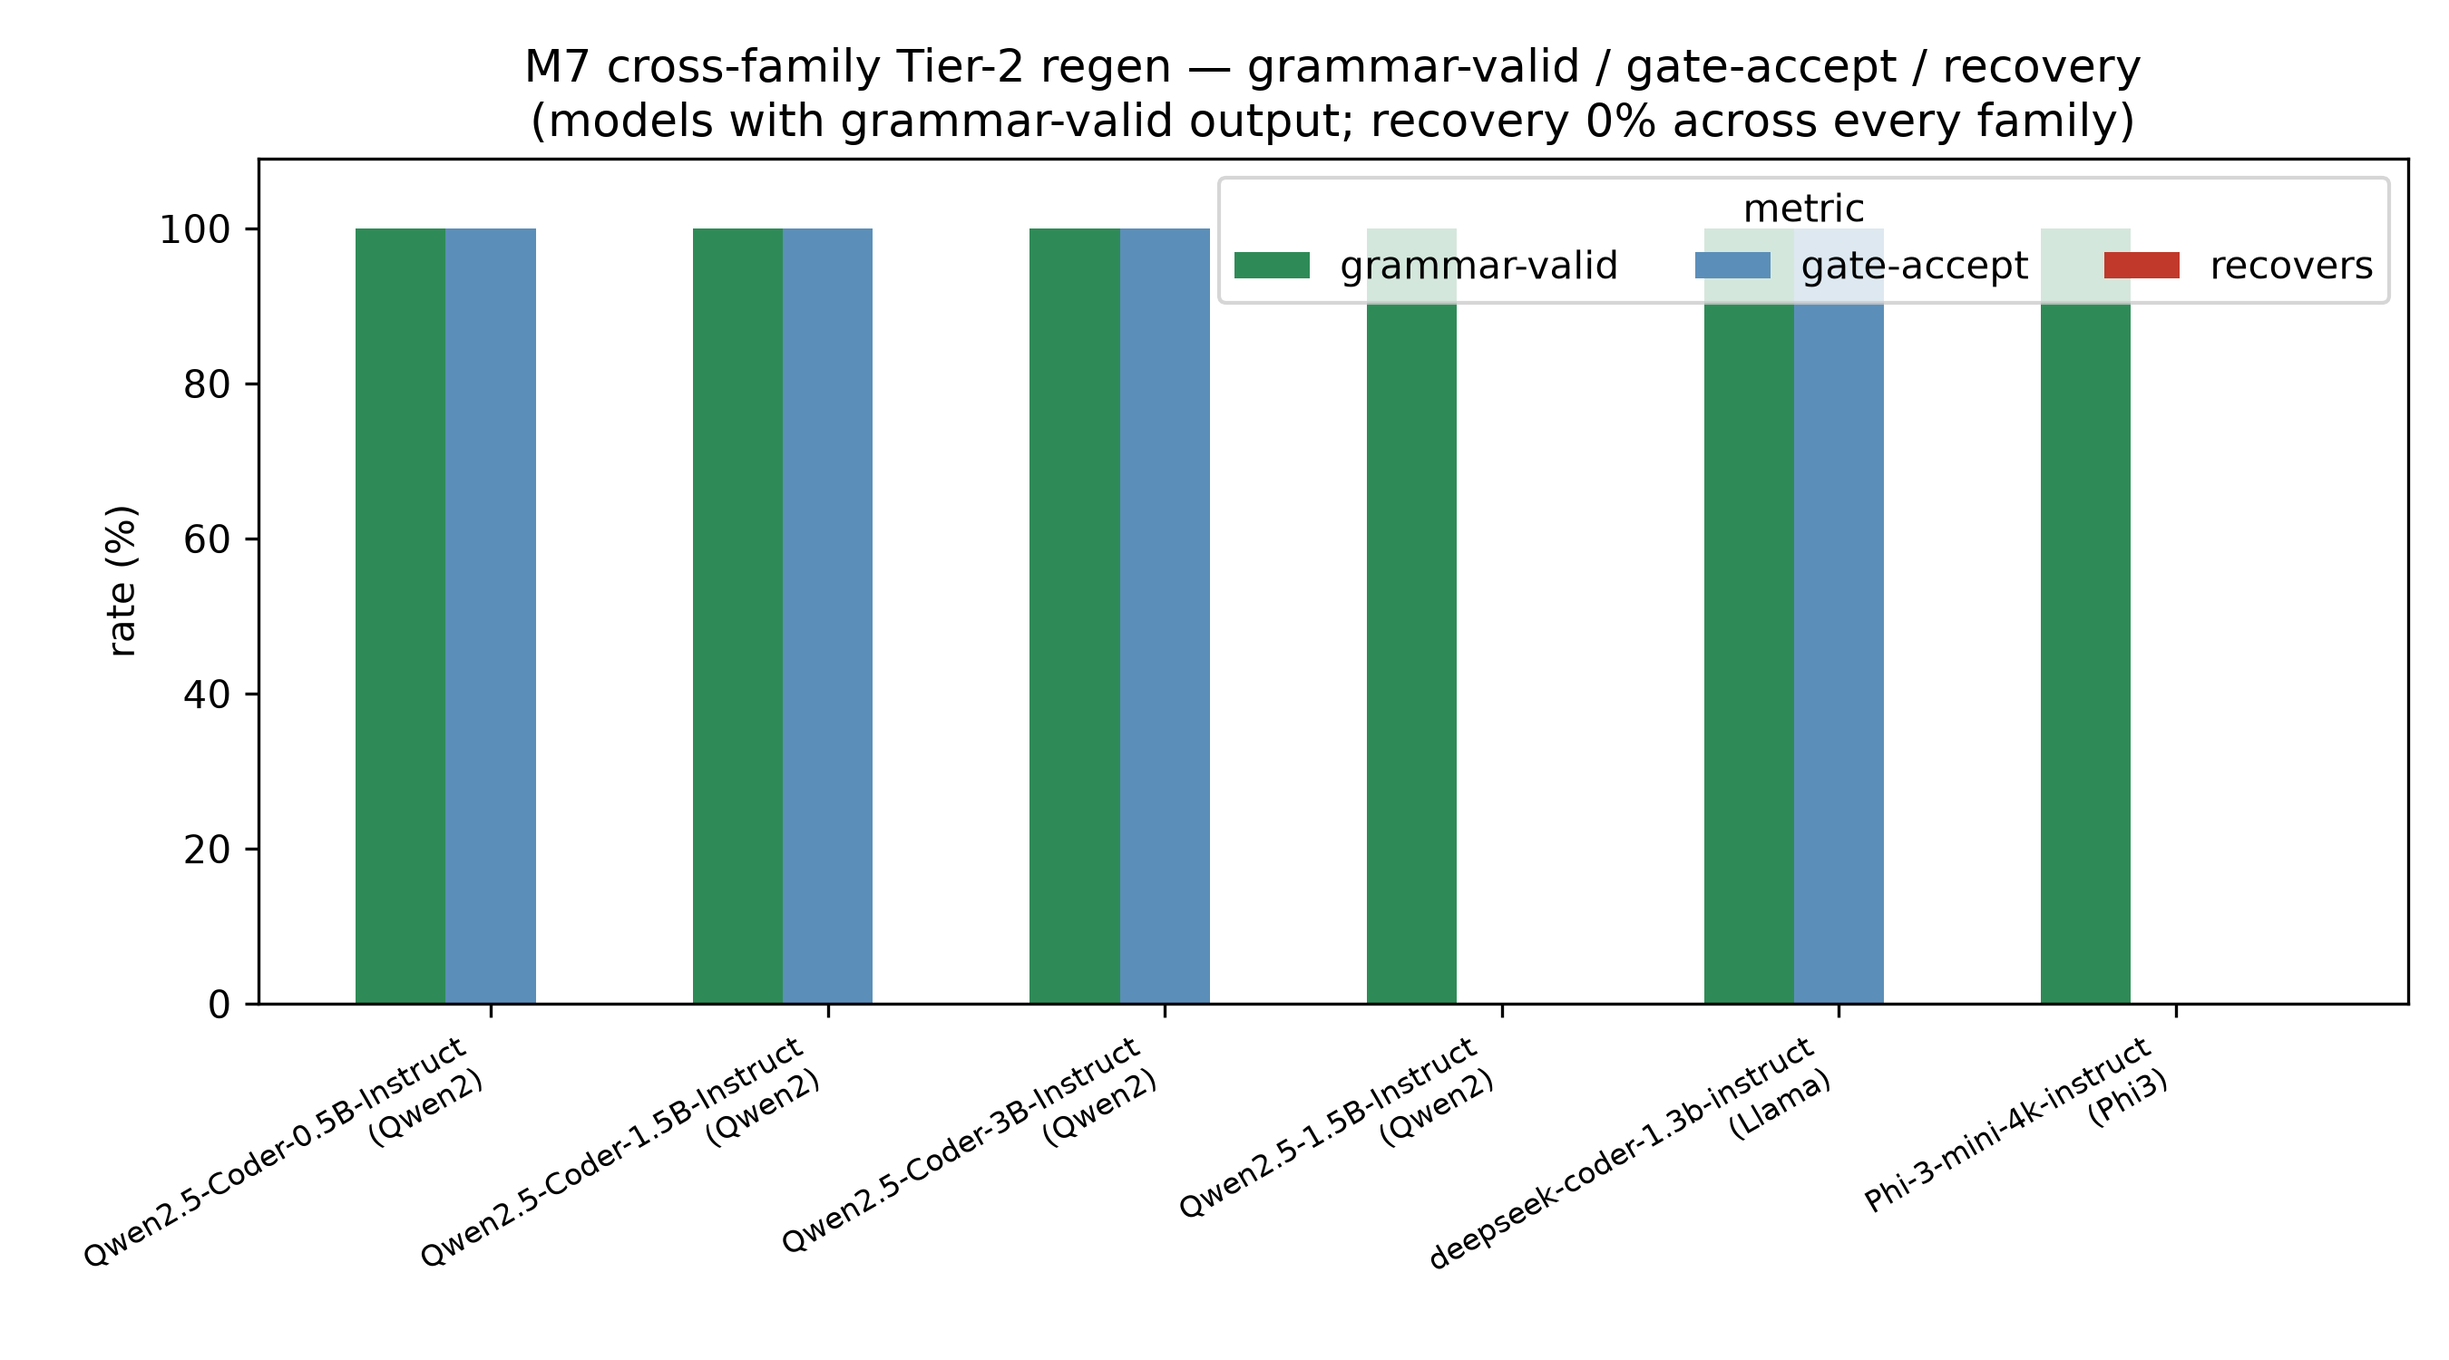
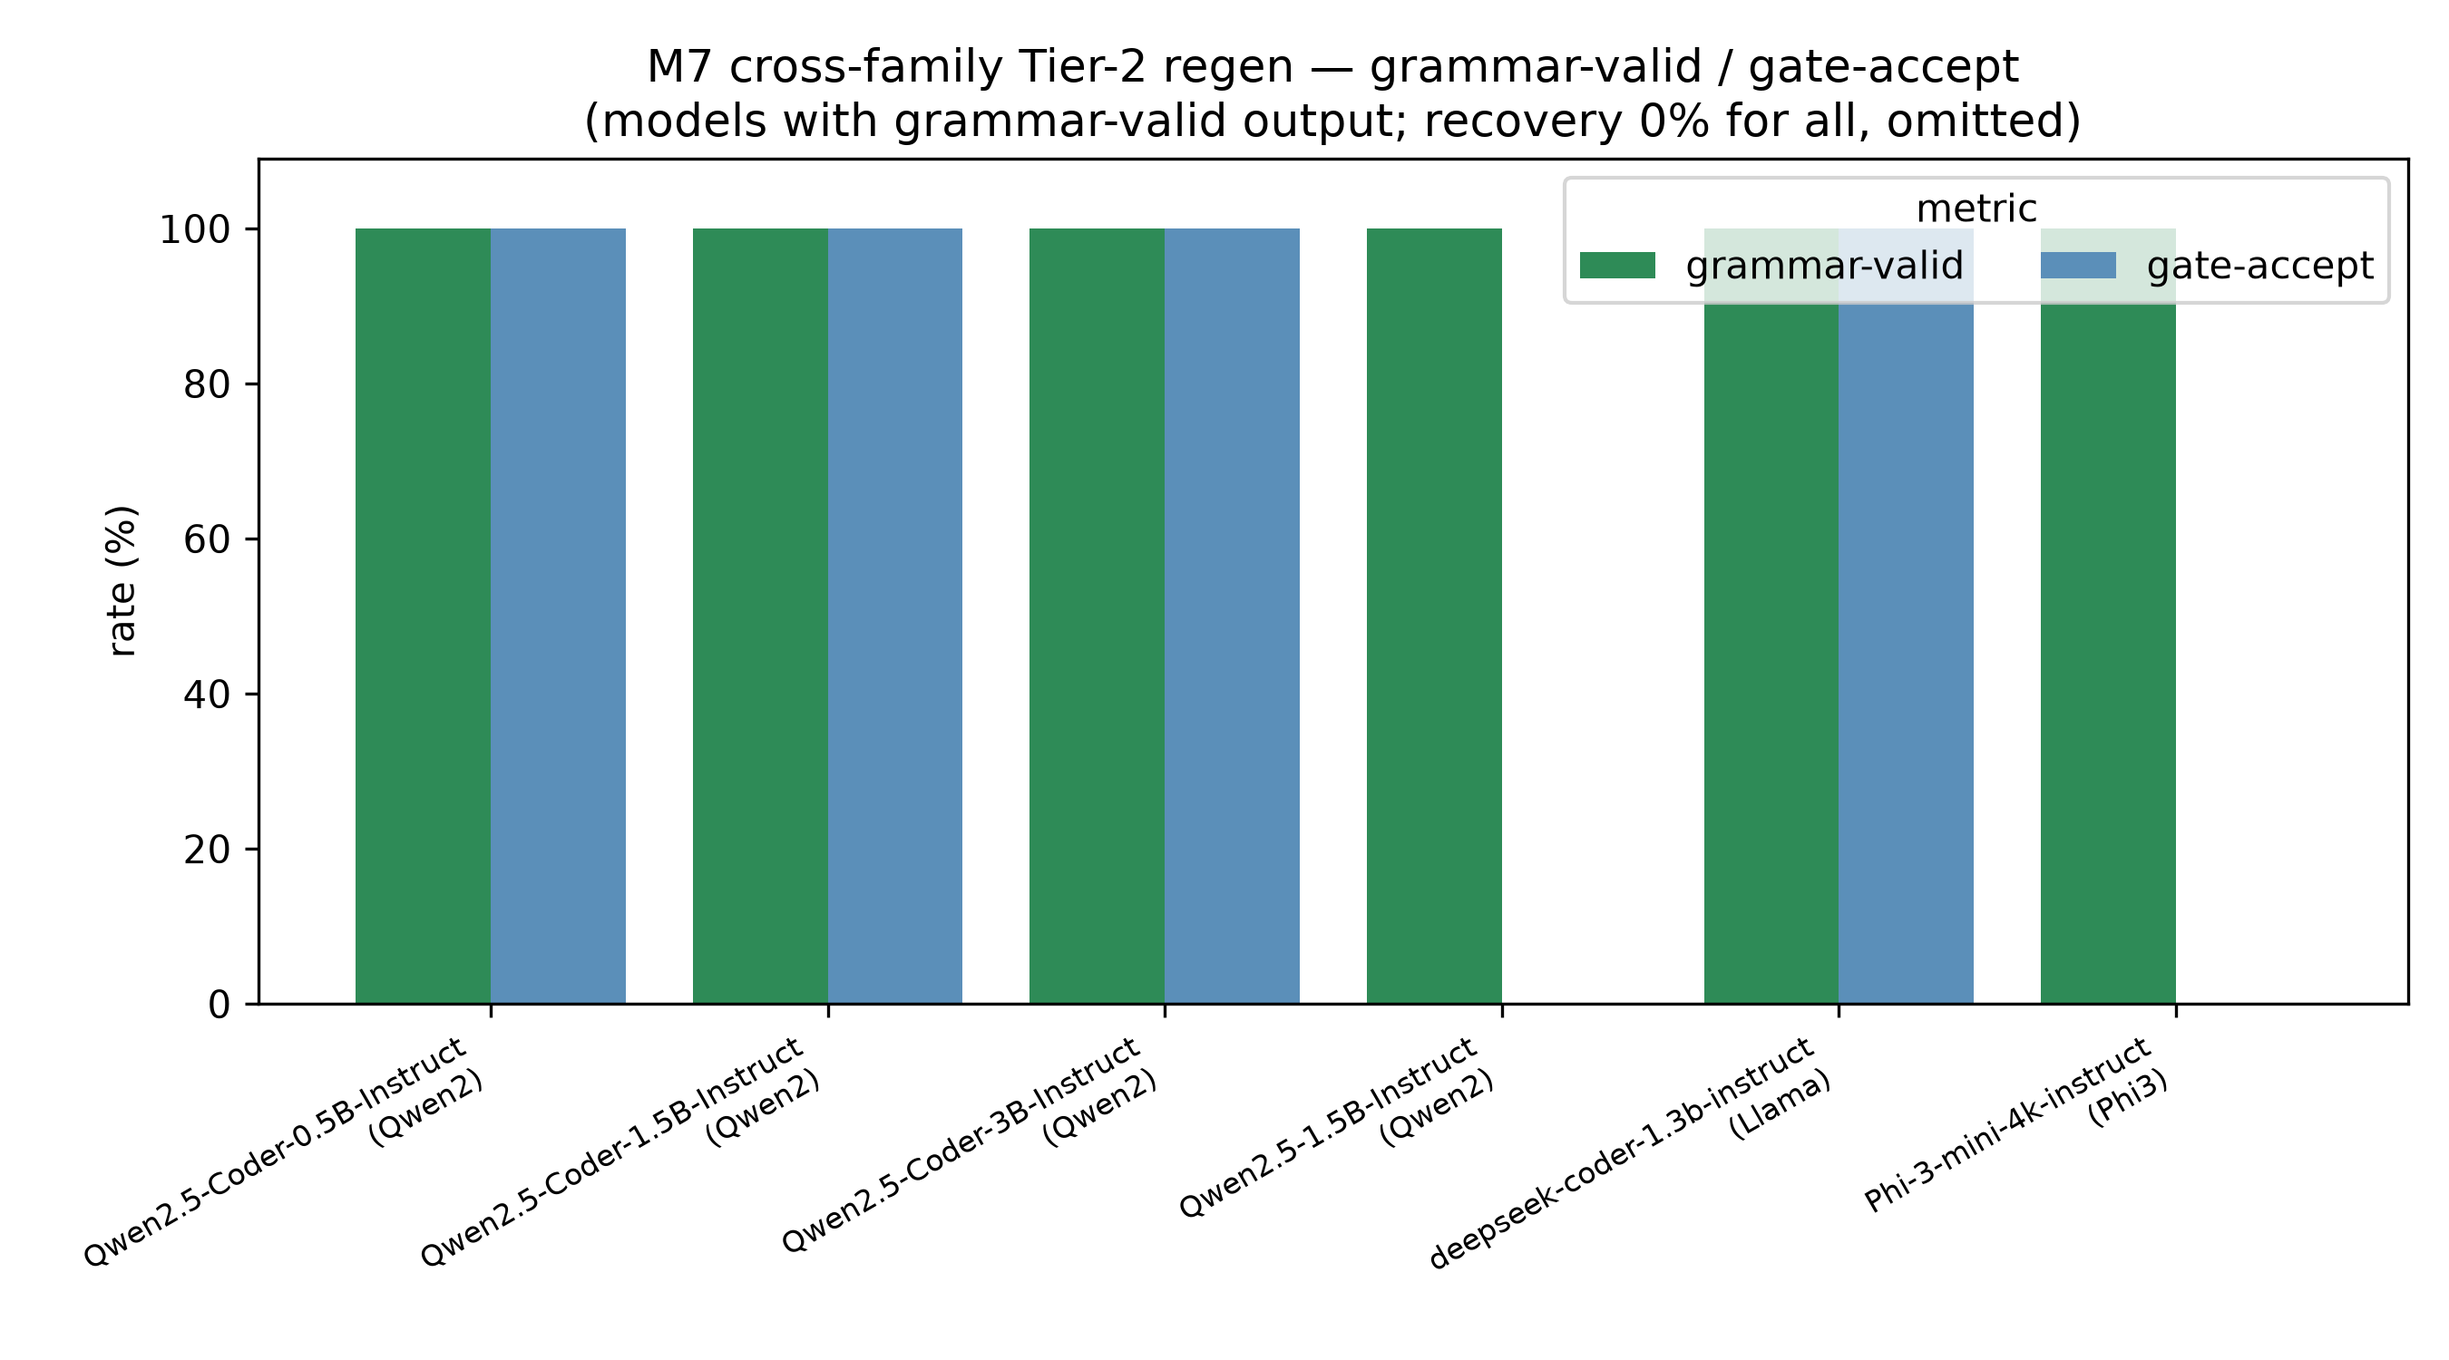
M7 cross-family: drop the all-zero recovery column from table and figure
recovery is 0% for every model that ran in the cross-family sweep (no family
or size emits the corrective row), so a uniformly-zero series carries no
cross-family signal. Remove the recovery column from the cross-family table
(in both experiment-results.md and m7-regen-comparison.md) and the third
all-zero series from the rates figure; state the 0% result in the text
instead. The per-model recovery_rate is retained (all 0) in m7_xfam.csv /
m7_xfam.json, and the Qwen size-sweep table keeps recovery because there
0% across 0.5B->3B is itself the finding.

plot_results.plot_xfam now plots grammar-valid + gate-accept only.

Changed region(s): [[0.2178, 0.0307, 0.9644, 0.736], [0.1556, 0.1533, 0.28, 0.736], [0.3111, 0.1533, 0.4044, 0.736]]

diff --git a/runtime/tools/plot_results.py b/runtime/tools/plot_results.py
@@ -247,15 +247,15 @@ def plot_xfam(resultsdir: str, plots: str) -> list[str]:
     saved = []
     label = lambda r: f"{r['model']}\n({r['family']})"            # noqa: E731
 
-    # Fig 1 — grammar-valid / gate-accept / recovery, for models that produced any
-    # grammar-valid output. The fully-unsuccessful ones (grammar-valid 0% — TinyLlama,
-    # SmolLM2, granite: truncation / wrong-action) are omitted here for legibility (all
-    # bars would be empty) and reported in the text; the cross-family takeaway is that
-    # recovery is 0% even for the models that DO clear grammar/gate.
+    # Fig 1 — grammar-valid / gate-accept, for models that produced any grammar-valid
+    # output. recovery is intentionally NOT plotted: it is 0% for every model (no family
+    # or size emits the corrective row), so a third all-zero series adds no insight — it
+    # is stated in the text instead. The fully-unsuccessful models (grammar-valid 0% —
+    # TinyLlama, SmolLM2, granite: truncation / wrong-action) are also omitted here (all
+    # bars would be empty) and reported in the text.
     scored = [r for r in ran if _f(r["grammar_valid_rate"]) > 0]
     metrics = [("grammar_valid_rate", "grammar-valid", "#2e8b57"),
-               ("gate_pass_rate", "gate-accept", "#5b8fb9"),
-               ("recovery_rate", "recovers", "#c0392b")]
+               ("gate_pass_rate", "gate-accept", "#5b8fb9")]
     fig, ax = plt.subplots(figsize=(9, 5))
     n = len(metrics); width = 0.8 / n; x = list(range(len(scored)))
     for i, (k, lbl, col) in enumerate(metrics):
@@ -263,9 +263,9 @@ def plot_xfam(resultsdir: str, plots: str) -> list[str]:
         off = [xi + (i - (n - 1) / 2) * width for xi in x]
         ax.bar(off, vals, width, label=lbl, color=col)
     ax.set_xticks(x); ax.set_xticklabels([label(r) for r in scored], rotation=30, ha="right", fontsize=8)
-    ax.set_ylim(0, 109); ax.set_ylabel("rate (%)"); ax.legend(title="metric", ncol=3)
-    ax.set_title("M7 cross-family Tier-2 regen — grammar-valid / gate-accept / recovery\n"
-                 "(models with grammar-valid output; recovery 0% across every family)")
+    ax.set_ylim(0, 109); ax.set_ylabel("rate (%)"); ax.legend(title="metric", ncol=2)
+    ax.set_title("M7 cross-family Tier-2 regen — grammar-valid / gate-accept\n"
+                 "(models with grammar-valid output; recovery 0% for all, omitted)")
     p = os.path.join(plots, "m7_xfam_rates.png")
     fig.tight_layout(); fig.savefig(p, dpi=300); plt.close(fig); saved.append(p)
 

diff --git a/docs/experiments/results/experiment-results.md b/docs/experiments/results/experiment-results.md
@@ -232,32 +232,38 @@ fixed commit** (the `revision` column, 12-char; full SHAs in [`m7_xfam.csv`](m7_
 [`m7_xfam.json`](m7_xfam.json)) via the harness's `org/model@<sha>` syntax — a cross-family run
 must **not** inherit a single model's `NETPROMPT_REGEN_REVISION` pin across all repos.
 
-| Model (params) | Family | Tokenizer | Rev | Category | grammar-valid | gate-accept | recovers | latency |
-|---|---|---|---|---|---|---|---|---|
-| Qwen2.5-Coder-0.5B-Instruct | Qwen2 | Qwen2 | `ea3f2471cf1b` | runs | 100% | 100% | **0%** | 5.6 s |
-| Qwen2.5-Coder-1.5B-Instruct | Qwen2 | Qwen2 | `2e1fd397ee46` | runs | 100% | 100% | **0%** | 6.1 s |
-| Qwen2.5-Coder-3B-Instruct | Qwen2 | Qwen2 | `488639f1ff80` | runs | 100% | 100% | **0%** | 8.0 s |
-| Qwen2.5-1.5B-Instruct (generalist) | Qwen2 | Qwen2 | `989aa7980e4c` | runs | 100% | 0% | **0%** | 6.3 s |
-| TinyLlama-1.1B-Chat-v1.0 | Llama | Llama | `fe8a4ea1ffed` | runs | 0% | 0% | **0%** | 4.0 s |
-| deepseek-coder-1.3b-instruct | Llama | Llama | `e063262dac83` | runs | 100% | 100% | **0%** | 4.5 s |
-| SmolLM2-1.7B-Instruct | Llama | GPT2 | `31b70e2e869a` | runs | 0% | 0% | **0%** | 4.5 s |
-| granite-3.0-2b-instruct | Granite | GPT2 | `5ad66c190631` | runs | 0% | 0% | **0%** | 8.0 s |
-| Phi-3-mini-4k-instruct | Phi3 | Llama | `f39ac1d28e92` | runs | 100% | 0% | **0%** | 7.6 s |
-| stable-code-instruct-3b | StableLm | GPTNeoX | `20e21f0e817b` | **fail_unsupported_tokenizer** | — | — | — | — |
-| starcoder2-3b | Starcoder2 | GPT2 | `733247c55e3f` | **fail_no_chat_template** | — | — | — | — |
+**Recovery is 0% for every model that ran** (no family or size emits the *corrective* row), so it
+is dropped from the table and figure below — a uniformly-zero column carries no cross-family
+signal — and stated here once. (The Qwen size-sweep above keeps recovery because there it *is* the
+finding: 0% across 0.5B→3B shows size doesn't buy it.)
 
-9 models run across **4 architecture families** (Qwen2, Llama, Phi3, Granite) and **3 tokenizer
-classes**; 2 probes sit at the load/decoding frontier. The honest findings:
+| Model (params) | Family | Tokenizer | Rev | Category | grammar-valid | gate-accept | latency |
+|---|---|---|---|---|---|---|---|
+| Qwen2.5-Coder-0.5B-Instruct | Qwen2 | Qwen2 | `ea3f2471cf1b` | runs | 100% | 100% | 5.6 s |
+| Qwen2.5-Coder-1.5B-Instruct | Qwen2 | Qwen2 | `2e1fd397ee46` | runs | 100% | 100% | 6.1 s |
+| Qwen2.5-Coder-3B-Instruct | Qwen2 | Qwen2 | `488639f1ff80` | runs | 100% | 100% | 8.0 s |
+| Qwen2.5-1.5B-Instruct (generalist) | Qwen2 | Qwen2 | `989aa7980e4c` | runs | 100% | 0% | 6.3 s |
+| TinyLlama-1.1B-Chat-v1.0 | Llama | Llama | `fe8a4ea1ffed` | runs | 0% | 0% | 4.0 s |
+| deepseek-coder-1.3b-instruct | Llama | Llama | `e063262dac83` | runs | 100% | 100% | 4.5 s |
+| SmolLM2-1.7B-Instruct | Llama | GPT2 | `31b70e2e869a` | runs | 0% | 0% | 4.5 s |
+| granite-3.0-2b-instruct | Granite | GPT2 | `5ad66c190631` | runs | 0% | 0% | 8.0 s |
+| Phi-3-mini-4k-instruct | Phi3 | Llama | `f39ac1d28e92` | runs | 100% | 0% | 7.6 s |
+| stable-code-instruct-3b | StableLm | GPTNeoX | `20e21f0e817b` | **fail_unsupported_tokenizer** | — | — | — |
+| starcoder2-3b | Starcoder2 | GPT2 | `733247c55e3f` | **fail_no_chat_template** | — | — | — |
+
+(`recovery_rate` per model is retained in [`m7_xfam.csv`](m7_xfam.csv) / [`m7_xfam.json`](m7_xfam.json)
+— all 0.) 9 models run across **4 architecture families** (Qwen2, Llama, Phi3, Granite) and **3
+tokenizer classes**; 2 probes sit at the load/decoding frontier. The honest findings:
 
 - **Gate *soundness* holds across every family; recovery is the frontier everywhere.** No row is
   gate-accepted while grammar-invalid — the sound gate accepts nothing non-conformant, in any
-  family — and **recovery is 0% for all nine runners** (no model emits the corrective row). Only
-  two families ever produce a gate-*accepted* candidate (`deepseek`/Llama and the Qwen2.5-Coder
-  sizes/Qwen2), so the cross-family evidence is "a non-Qwen model *can* clear the gate" + total
-  soundness — not a broad per-family safety sweep.
+  family — and (as above) **recovery is 0% for all nine runners** (no model emits the corrective
+  row). Only two families ever produce a gate-*accepted* candidate (`deepseek`/Llama and the
+  Qwen2.5-Coder sizes/Qwen2), so the cross-family evidence is "a non-Qwen model *can* clear the
+  gate" + total soundness — not a broad per-family safety sweep.
 - **The Qwen-Coder size sweep reproduces inside the cross-family run:** 0.5B/1.5B/3B are all
-  100% / 100% / **0%** (safe, gate-vetted, never the corrective row) — matching the standalone
-  size-sweep, and size still doesn't buy recovery.
+  100% grammar-valid and 100% gate-accepted (safe, gate-vetted) yet never recover — matching the
+  standalone size-sweep, and size still doesn't buy recovery.
 - **Three models are *completely unsuccessful* (0% grammar-valid): TinyLlama, SmolLM2, granite.**
   They never produce a usable candidate, for **two distinct** reasons — both caught before the gate,
   neither a regression. TinyLlama is **truncation**: all three outputs
@@ -273,10 +279,10 @@ classes**; 2 probes sit at the load/decoding frontier. The honest findings:
   fine but its `GPTNeoXTokenizerFast` isn't in transformers-cfg's exact-match set; `starcoder2-3b`
   is a base model with no chat template. Both are categorized cleanly instead of crashing the sweep.
 
-Figures: [`m7_xfam_rates.png`](plots/m7_xfam_rates.png) (grammar/gate/recovery — the **6 models
-that produced grammar-valid output**; the three 0%-grammar models above are omitted) and
-[`m7_xfam_latency.png`](plots/m7_xfam_latency.png) (latency by family, all 9 runners).
-**Reproduce:** see [Reproduce → M7](#m7--cross-family-regen-comparison-multi-llm).
+Figures: [`m7_xfam_rates.png`](plots/m7_xfam_rates.png) (grammar-valid + gate-accept — the **6
+models that produced grammar-valid output**; recovery is 0% for all and the three 0%-grammar models
+are omitted) and [`m7_xfam_latency.png`](plots/m7_xfam_latency.png) (latency by family, all 9
+runners). **Reproduce:** see [Reproduce → M7](#m7--cross-family-regen-comparison-multi-llm).
 
 ---
 
@@ -340,7 +346,7 @@ python3 -m runtime.tools.plot_results --resultsdir docs/experiments/results
 | `e3_overhead_by_scenario_arm.png` | orchestration wall time per scenario × arm |
 | `e4_recover_by_arm.png` | recover correctness by arm — stub 100/100/100 vs real (1.5B Coder) 100/75/**0** (the frontier) |
 | `e4_reject_safety.png` | broken scripts refused by fault class — syntactic 8/8 (grammar), runtime 4/4 (gate L2) |
-| `m7_xfam_rates.png` | M7 cross-family grammar-valid / gate-accept / recovery — the 6 models with grammar-valid output (TinyLlama/SmolLM2/granite at 0% omitted) — recovery **0% across every family** |
+| `m7_xfam_rates.png` | M7 cross-family grammar-valid + gate-accept — the 6 models with grammar-valid output (TinyLlama/SmolLM2/granite at 0% omitted); recovery is 0% for all and dropped from the plot |
 | `m7_xfam_latency.png` | M7 cross-family mean GBNF-constrained generation latency per model, coloured by family |
 
 The committed CSVs are from the **2026-06-24** E3 run (36/36 cells) and the E1 probe

diff --git a/docs/regen/m7-regen-comparison.md b/docs/regen/m7-regen-comparison.md
@@ -50,21 +50,25 @@ separately (test D, DoD #3).
 Eleven models across **6 architecture families** and **4 tokenizer classes**; nine load and run,
 two are categorized at the load/decoding frontier. **Each model is pinned to a fixed commit** (12-char
 `rev`; full SHAs + raw bundle in the committed artifacts below) — a cross-family run must NOT inherit
-one model's `NETPROMPT_REGEN_REVISION` pin across all repos.
+one model's `NETPROMPT_REGEN_REVISION` pin across all repos. **Recovery is 0% for every model that
+ran** (no family or size emits the corrective row), so it is omitted from this table and the figure —
+a uniformly-zero column carries no cross-family signal; the per-model `recovery_rate` is retained (all
+0) in the committed `m7_xfam.csv` / `m7_xfam.json`. (The Qwen size-sweep table above keeps recovery
+because there 0% across 0.5B→3B *is* the finding.)
 
-| Model | Family | Tokenizer | Rev | Category | grammar-valid | gate-accept | recovery | latency |
-|---|---|---|---|---|---|---|---|---|
-| Qwen2.5-Coder-0.5B-Instruct | Qwen2 | Qwen2TokenizerFast | `ea3f2471cf1b` | runs | 100% | 100% | 0% | 5.6 s |
-| Qwen2.5-Coder-1.5B-Instruct | Qwen2 | Qwen2TokenizerFast | `2e1fd397ee46` | runs | 100% | 100% | 0% | 6.1 s |
-| Qwen2.5-Coder-3B-Instruct | Qwen2 | Qwen2TokenizerFast | `488639f1ff80` | runs | 100% | 100% | 0% | 8.0 s |
-| Qwen2.5-1.5B-Instruct | Qwen2 | Qwen2TokenizerFast | `989aa7980e4c` | runs | 100% | 0% | 0% | 6.3 s |
-| deepseek-coder-1.3b-instruct | Llama | LlamaTokenizerFast | `e063262dac83` | runs | 100% | 100% | 0% | 4.5 s |
-| TinyLlama-1.1B-Chat-v1.0 | Llama | LlamaTokenizerFast | `fe8a4ea1ffed` | runs | 0% | 0% | 0% | 4.0 s |
-| SmolLM2-1.7B-Instruct | Llama | GPT2TokenizerFast | `31b70e2e869a` | runs | 0% | 0% | 0% | 4.5 s |
-| Phi-3-mini-4k-instruct | Phi3 | LlamaTokenizerFast | `f39ac1d28e92` | runs | 100% | 0% | 0% | 7.6 s |
-| granite-3.0-2b-instruct | Granite | GPT2TokenizerFast | `5ad66c190631` | runs | 0% | 0% | 0% | 8.0 s |
-| stable-code-instruct-3b | StableLm | GPTNeoXTokenizerFast | `20e21f0e817b` | **fail_unsupported_tokenizer** | — | — | — | — |
-| starcoder2-3b | Starcoder2 | GPT2TokenizerFast | `733247c55e3f` | **fail_no_chat_template** | — | — | — | — |
+| Model | Family | Tokenizer | Rev | Category | grammar-valid | gate-accept | latency |
+|---|---|---|---|---|---|---|---|
+| Qwen2.5-Coder-0.5B-Instruct | Qwen2 | Qwen2TokenizerFast | `ea3f2471cf1b` | runs | 100% | 100% | 5.6 s |
+| Qwen2.5-Coder-1.5B-Instruct | Qwen2 | Qwen2TokenizerFast | `2e1fd397ee46` | runs | 100% | 100% | 6.1 s |
+| Qwen2.5-Coder-3B-Instruct | Qwen2 | Qwen2TokenizerFast | `488639f1ff80` | runs | 100% | 100% | 8.0 s |
+| Qwen2.5-1.5B-Instruct | Qwen2 | Qwen2TokenizerFast | `989aa7980e4c` | runs | 100% | 0% | 6.3 s |
+| deepseek-coder-1.3b-instruct | Llama | LlamaTokenizerFast | `e063262dac83` | runs | 100% | 100% | 4.5 s |
+| TinyLlama-1.1B-Chat-v1.0 | Llama | LlamaTokenizerFast | `fe8a4ea1ffed` | runs | 0% | 0% | 4.0 s |
+| SmolLM2-1.7B-Instruct | Llama | GPT2TokenizerFast | `31b70e2e869a` | runs | 0% | 0% | 4.5 s |
+| Phi-3-mini-4k-instruct | Phi3 | LlamaTokenizerFast | `f39ac1d28e92` | runs | 100% | 0% | 7.6 s |
+| granite-3.0-2b-instruct | Granite | GPT2TokenizerFast | `5ad66c190631` | runs | 0% | 0% | 8.0 s |
+| stable-code-instruct-3b | StableLm | GPTNeoXTokenizerFast | `20e21f0e817b` | **fail_unsupported_tokenizer** | — | — | — |
+| starcoder2-3b | Starcoder2 | GPT2TokenizerFast | `733247c55e3f` | **fail_no_chat_template** | — | — | — |
 
 Committed artifacts (regenerate with `repro/m7_xfam.sh`): the tidy
 [`m7_xfam.csv`](../experiments/results/m7_xfam.csv), the raw
